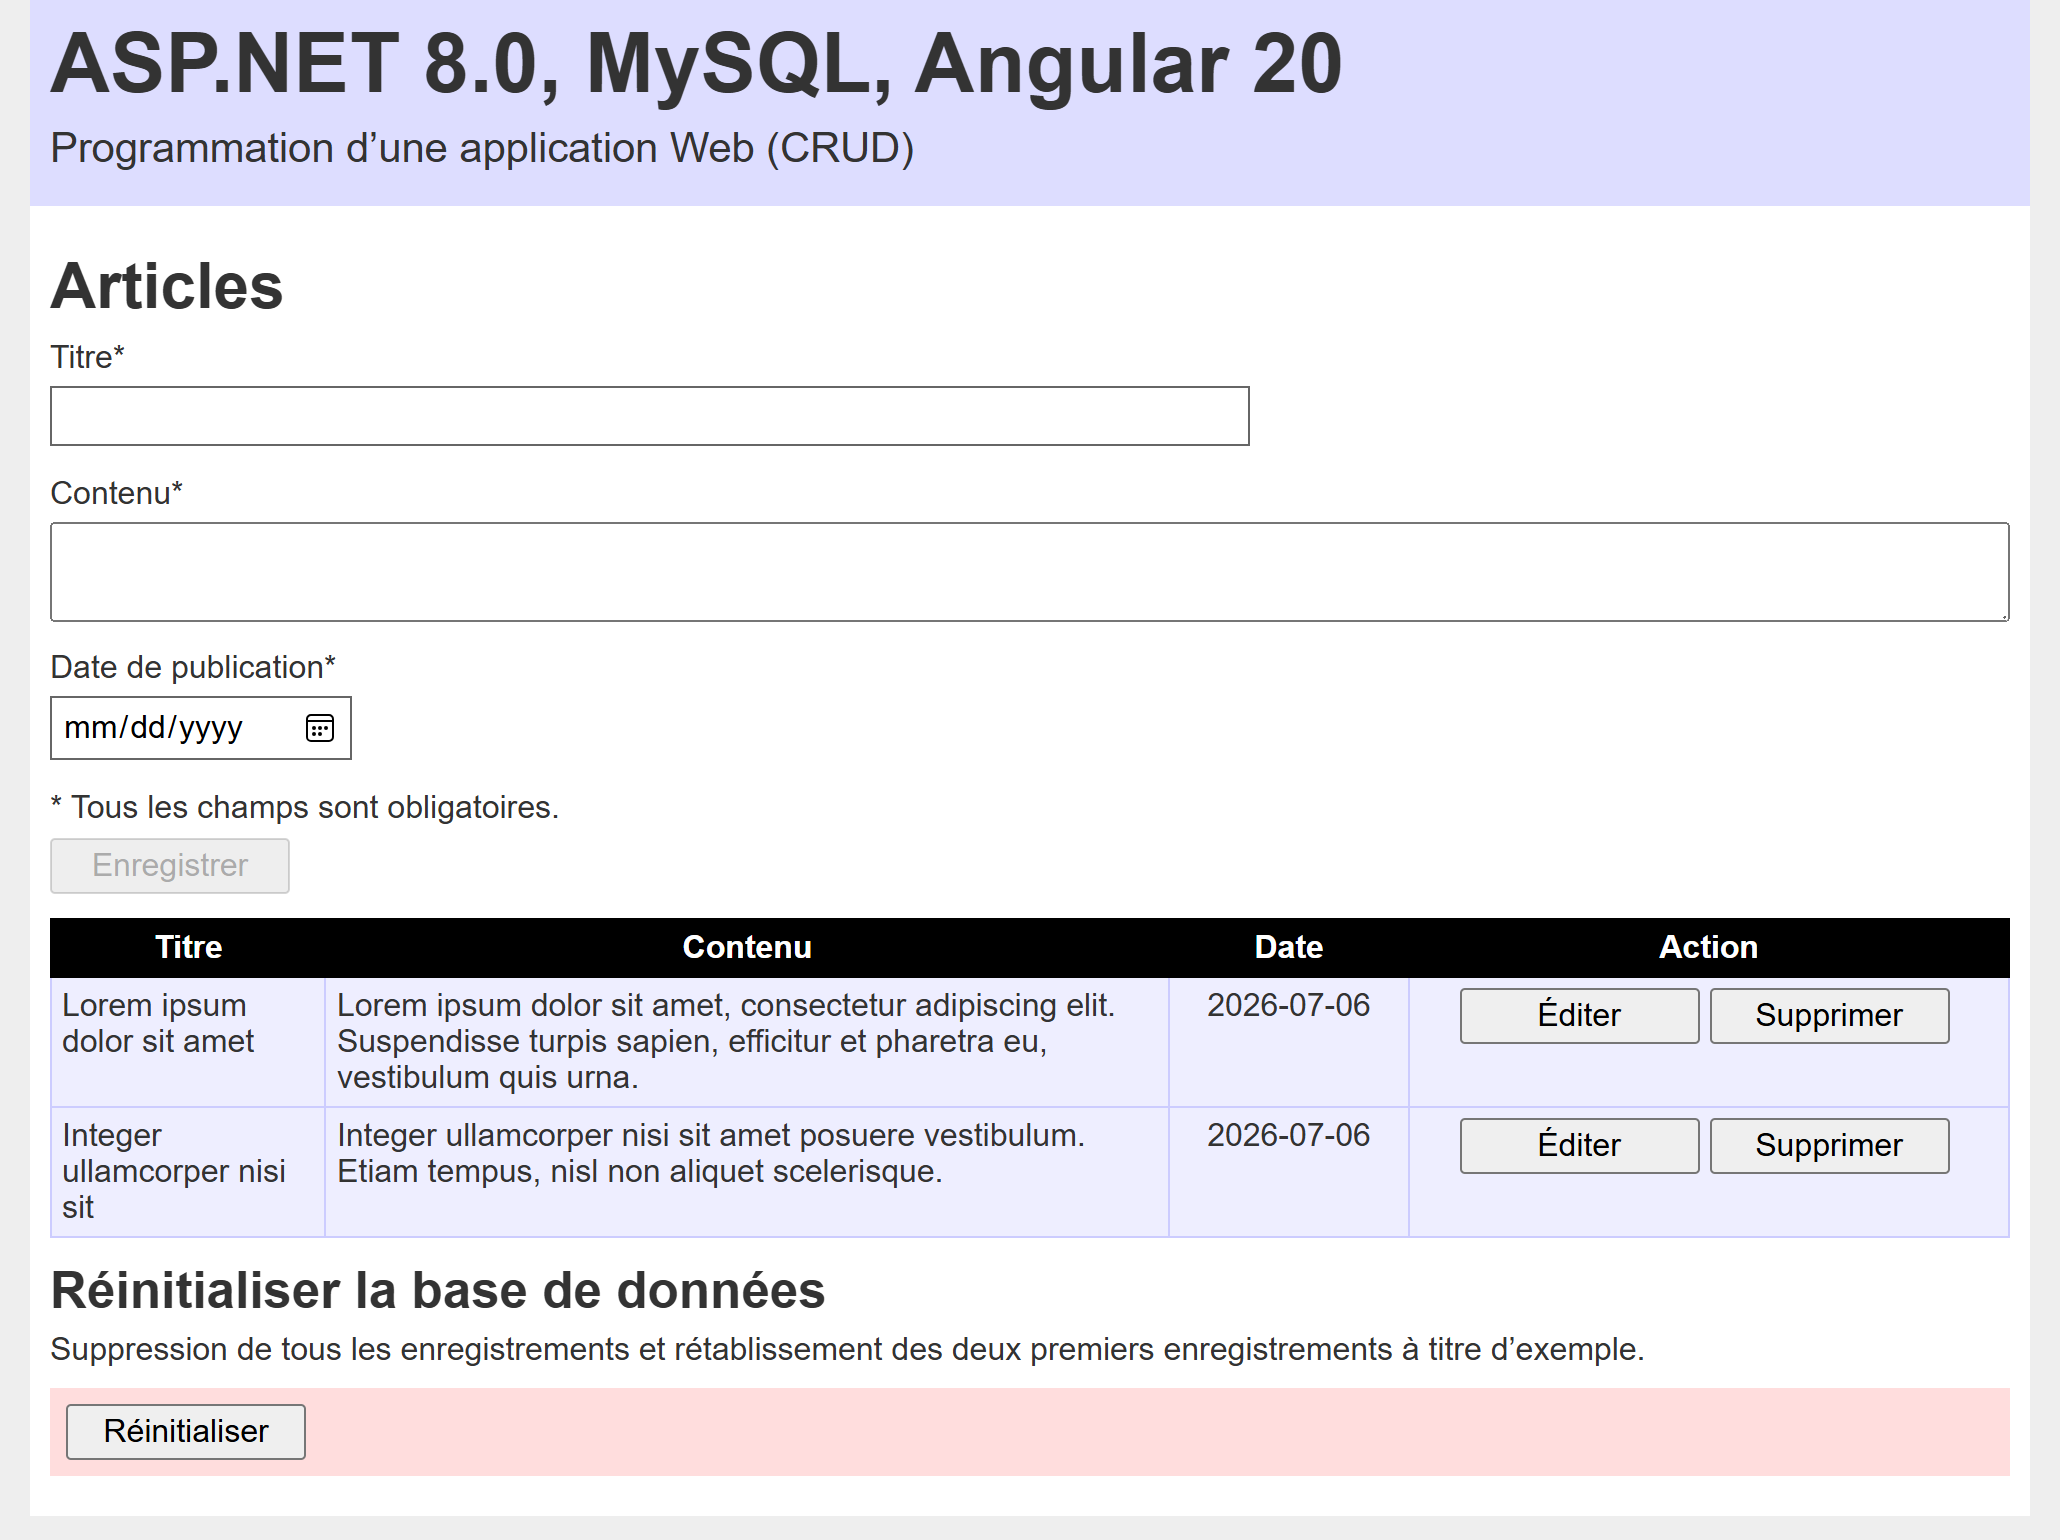
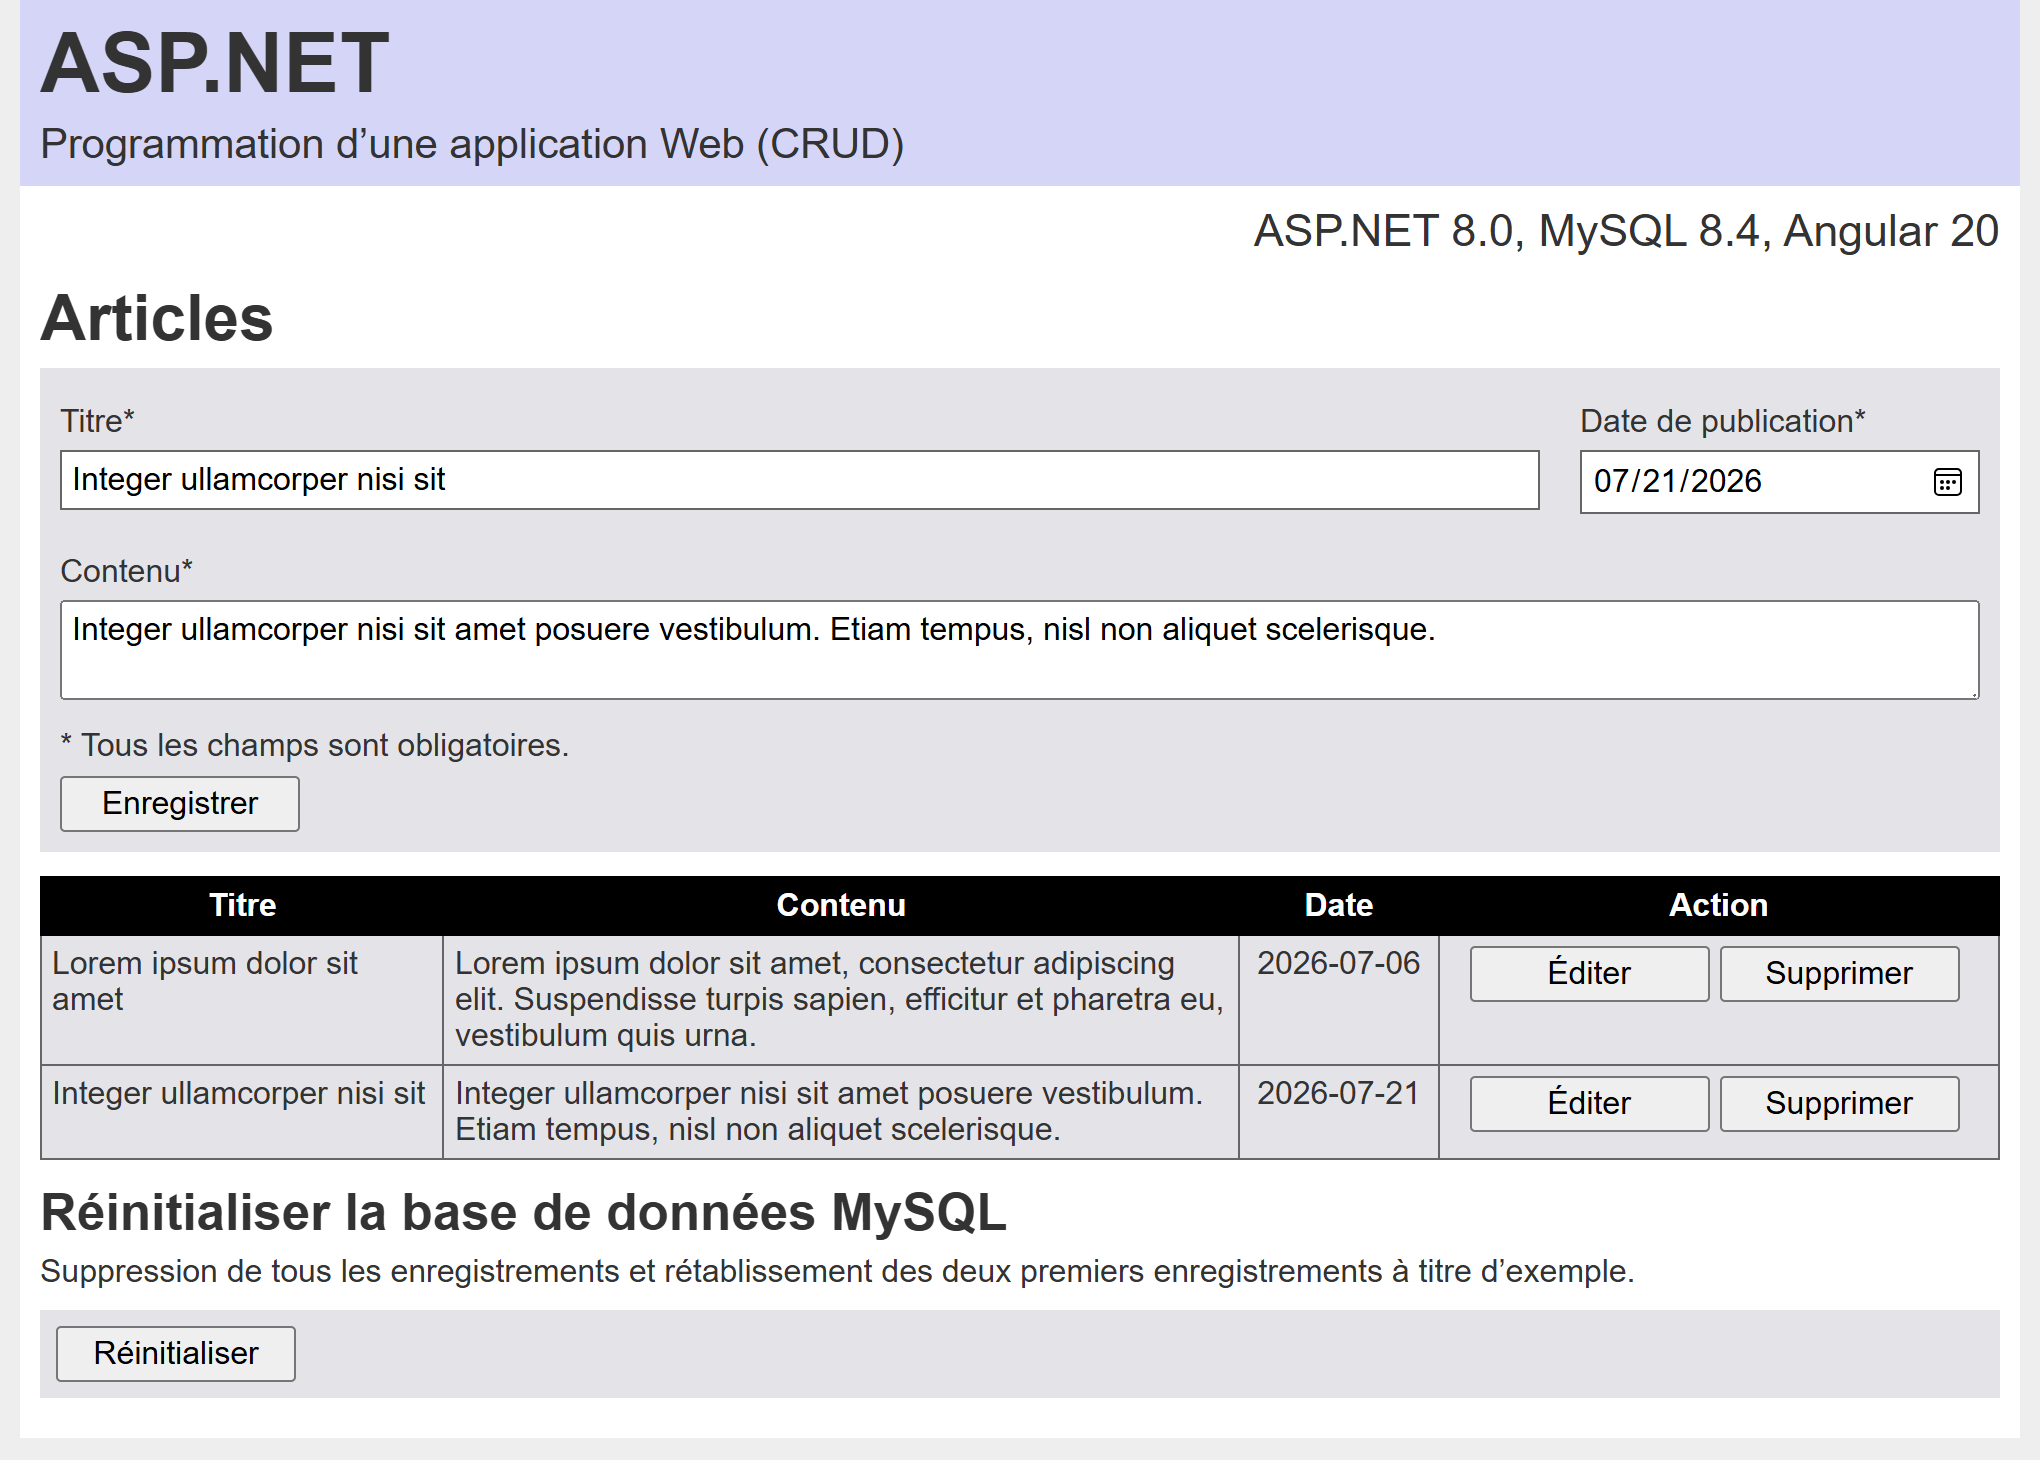
Exercice ASP.NET

diff --git a/angular06/src/styles.scss b/angular06/src/styles.scss
@@ -1,3 +1,6 @@
+$color01: hsl(238, 70%, 90%); // Saturation: 70
+$color02: hsl(238, 10%, 90%); // Saturation: 10
+
 * {
   box-sizing: border-box;
 }
@@ -12,15 +15,13 @@ p {
   margin: 0 0 6px 0;
 }
 input {
-  padding: 4px;
-  margin: 0 5px 5px 0;
+  padding: 5px;
   border: 1px solid #666;
   font-family: Arial, Helvetica, sans-serif;
   font-size: 1rem;
 }
 select {
-  padding: 4px;
-  margin: 0 5px 5px 0;
+  padding: 5px;
   border: 1px solid #666;
   background-color: #fff;
   font-family: Arial, Helvetica, sans-serif;
@@ -39,19 +40,18 @@ header {
     padding: 10px;
     max-width: 1000px;
     min-width: 280px;
-    background-color: #ddf;
+    background-color: $color01;
     .themetitle {
-      margin: 0 0 8px 0;
+      margin: 0 0 6px 0;
       padding: 0;
       font-size: 2.6rem;
-      font-weight: bold;
-      line-height: 2.8rem;
+      font-weight: 700;
+      line-height: 2.8rem
     }
     .subtitle {
-      margin: 0 0 8px 0;
-      padding: 0;
+      margin: 0;
       font-size: 1.3rem;
-      line-height: 1.4rem;
+      line-height: 1.4rem
     }
   }
 }
@@ -62,6 +62,10 @@ main {
     max-width: 1000px;
     min-width: 280px;
     background-color: #fff;
+    .technologies {
+      font-size: 1.4rem;
+      text-align: right;
+    }
     h2 {
       margin: 12px 0 6px 0;
       font-size: 2rem;
@@ -73,12 +77,16 @@ main {
     .reset {
       margin: 10px 0;
       padding: 8px;
-      background-color: #fdd;
+      background-color: $color02;
     }
   }
 }
 
 .form45 {
+  form {
+    padding: 10px;
+    background-color: $color02;
+  }
   div {
     margin: 0 0 10px 0;
   }
@@ -87,11 +95,7 @@ main {
     margin: 8px 0 5px 0;
   }
   input {
-    padding: 5px;
-  }
-  #title {
     width: 100%;
-    max-width: 600px;
   }
   textarea {
     padding: 5px;
@@ -99,6 +103,16 @@ main {
     min-height: 50px;
     font-family: Arial, Helevica, sans-serif;
     font-size: 1rem;
+  }
+  .row45 {
+    display: flex;
+    column-gap: 20px;
+    .col01 {
+      flex: 1;
+    }
+    .col02 {
+      width: 200px;
+    }
   }
 }
 
@@ -111,7 +125,7 @@ main {
   min-width: 700px;
   border-collapse: collapse;
   border: none;
-  background-color: #eef
+  background-color: $color02;
 }
 .table45 thead {
   color: #fff;
@@ -123,14 +137,17 @@ main {
 }
 .table45 td {
   padding: 5px;
-  border: 1px solid #ccf;
+  border: 1px solid #666;
   vertical-align: top;
 }
+.table45 td:nth-child(1) {
+  min-width: 200px;
+}
 .table45 td:nth-child(3) {
-  width: 120px;
+  width: 100px;
   text-align: center;
 }
 .table45 td:nth-child(4) {
-  width: 300px;
+  width: 280px;
   text-align: center;
 }

diff --git a/angular06/src/app/components/articles/articles.component.html b/angular06/src/app/components/articles/articles.component.html
@@ -1,17 +1,19 @@
 <section aria-labelledby="articles-title" class="form45">
   <h2 id="articles-title">Articles</h2>
   <form (ngSubmit)="save()" #articleForm="ngForm">
-    <div>
-      <label for="title">Titre*</label>
-      <input id="title" name="title" type="text" [(ngModel)]="article12.title" required>
+    <div class="row45">
+      <div class="col01">
+        <label for="title">Titre*</label>
+        <input id="title" name="title" type="text" [(ngModel)]="article12.title" required>
+      </div>
+      <div class="col02">
+        <label for="pubdate">Date de publication*</label>
+        <input id="pubdate" name="pubdate" type="date" [(ngModel)]="article12.pubdate" required>
+      </div>
     </div>
     <div>
       <label for="content">Contenu*</label>
       <textarea id="content" name="content" [(ngModel)]="article12.content" required></textarea>
-    </div>
-    <div>
-      <label for="pubdate">Date de publication*</label>
-      <input id="pubdate" name="pubdate" type="date" [(ngModel)]="article12.pubdate" required>
     </div>
     <p>* Tous les champs sont obligatoires.</p>
     <button type="submit" [disabled]="articleForm.invalid">Enregistrer</button>

diff --git a/angular06/src/app/app.html b/angular06/src/app/app.html
@@ -1,7 +1,7 @@
-<header class="color01">
+<header>
   <div class="container">
     <div>
-      <p class="themetitle">ASP.NET 8.0, MySQL, Angular 20</p>
+      <p class="themetitle">ASP.NET</p>
     </div>
     <div>
       <p class="subtitle">Programmation d’une application Web (CRUD)</p>
@@ -10,6 +10,7 @@
 </header>
 <main>
   <div class="container">
+    <p class="technologies">ASP.NET 8.0, MySQL 8.4, Angular 20</p>
     <router-outlet></router-outlet>
   </div>
 </main>

diff --git a/angular06/src/index.html b/angular06/src/index.html
@@ -12,7 +12,7 @@
   <meta name="description" content="Exercice de programmation">
   <meta name="author" content="Ghislain Coutu">
   <link rel="icon" type="image/x-icon" href="favicon.ico">
-  <title>ASP.NET, MySQL, Angular</title>
+  <title>ASP.NET</title>
 </head>
 <body>
   <app-root></app-root>